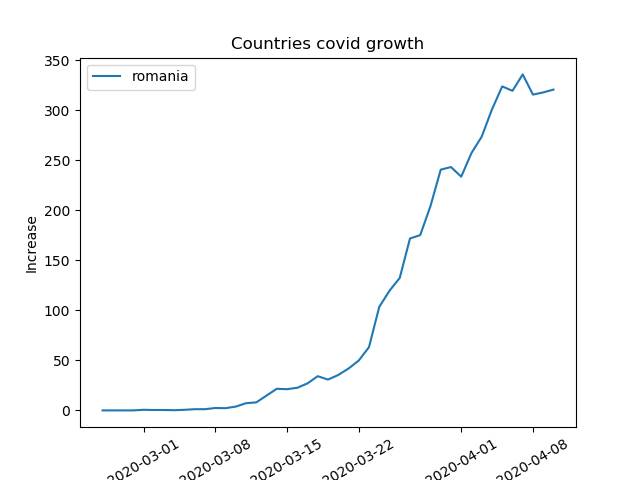
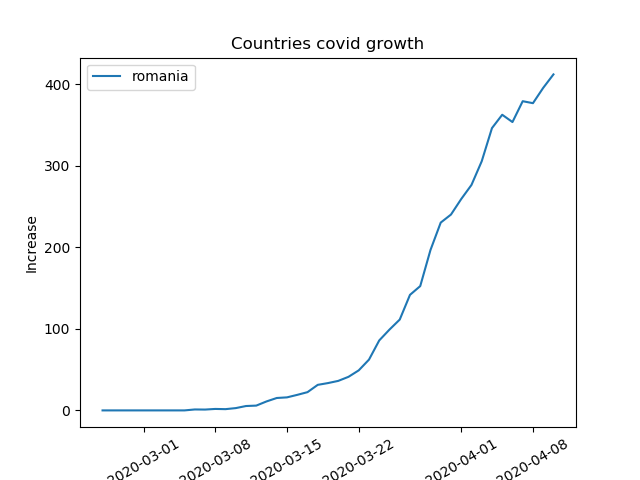
better aproxiamtion for convolution (multiply factor -> value current day / convolution currecnt day)

diff --git a/covid-data/coviddata.py b/covid-data/coviddata.py
@@ -86,21 +86,22 @@ def apply_convolution(x,y,xgrow,ygrow,conv_len):
     yconvval=[]
     for yi in y:
         yconva=[]
-        last_conv=0
+        
+        last_conv=sum([yi[j] for j in range(conv_len)])/conv_len
         for i in range(conv_len-1):
             yconva.append(int(last_conv))
-        
         for i in range(conv_len-1,len(yi)):
             last_conv=sum([yi[j] for j in range(i-conv_len+1,i+1)])/conv_len
             yconva.append(last_conv)
 
-        
+        predval=yi[len(yi)-1]/yconva[len(yconva)-1]
+        yconva=list(map(lambda x : predval * x,yconva))
             
         yconvval.append(yconva)
     yconvgrow=[]
     for yi in ygrow:
         yconva=[]
-        last_conv=0
+        last_conv=sum([yi[j] for j in range(conv_len)])/conv_len
         for i in range(conv_len-1):
             yconva.append(int(last_conv))
             
@@ -108,6 +109,8 @@ def apply_convolution(x,y,xgrow,ygrow,conv_len):
             last_conv=sum([yi[j] for j in range(i-conv_len+1,i+1)])/conv_len
             yconva.append(last_conv)
 
+        redval=yi[len(yi)-1]/yconva[len(yconva)-1]
+        yconva=list(map(lambda x : predval * x,yconva))
             
         yconvgrow.append(yconva)
     
@@ -173,7 +176,7 @@ def generate_graphs(countries,filename):
         xgrow[i].pop()
         ygrow[i].pop()
         
-    (yconvval,yconvgrow)=apply_convolution(x,y,xgrow,ygrow,5)
+    (yconvval,yconvgrow)=apply_convolution(x,y,xgrow,ygrow,10)
     
     pred=[]
     for i in range(len(yconvval)):
@@ -205,4 +208,5 @@ if __name__ == "__main__":
     generate_graphs(["romania"],"graphromania")
     generate_graphs(["united-states"],"graphus")
     generate_graphs(["united-kingdom"],"graphuk")
+    generate_graphs(["romania","denmark"],"graphroden")
     
